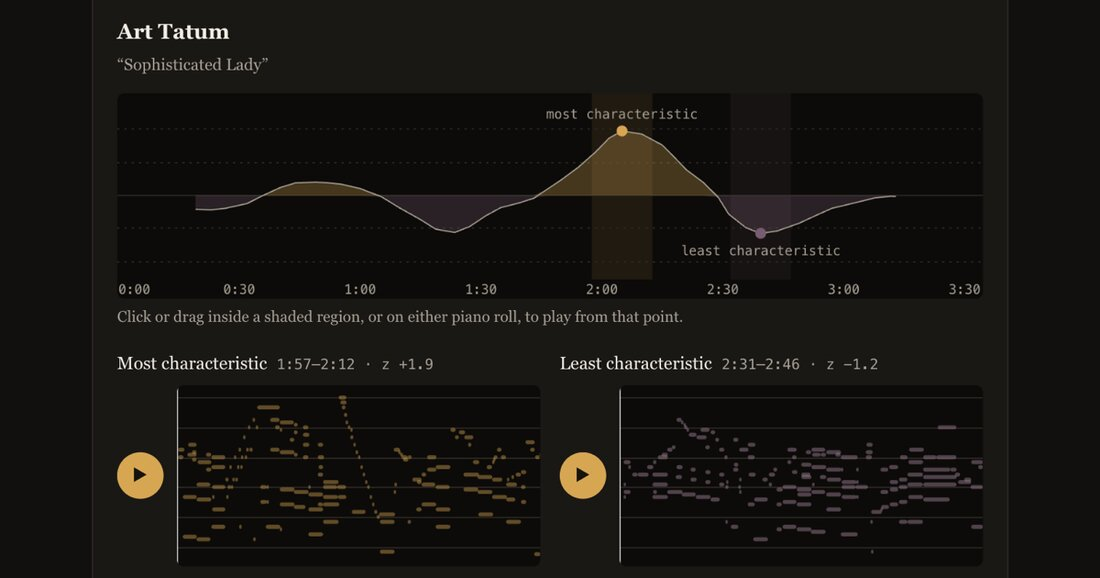
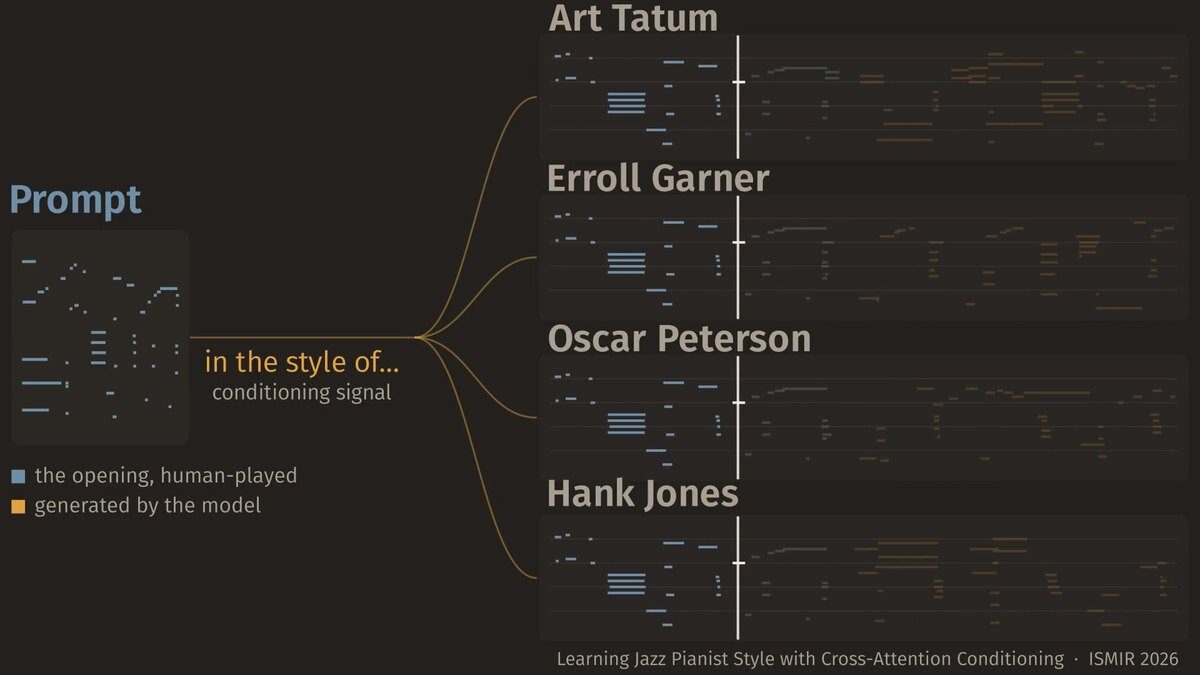
Use the one-prompt-four-pianists frame for the featured paper; link the thread

diff --git a/research/index.html b/research/index.html
@@ -79,7 +79,7 @@
                     <div class="featured">
                         <div class="row">
                             <div class="col-sm-5">
-                                <a class="no-smoothState" href="https://almostimplemented.github.io/jazz-pianist-style/"><img class="img-responsive" src="/img/jazz-pianist-style.jpg" alt="Most and least characteristic passages of an Art Tatum performance"></a>
+                                <a class="no-smoothState" href="https://almostimplemented.github.io/jazz-pianist-style/"><img class="img-responsive" src="/img/jazz-pianist-style.jpg" alt="One prompt continued in the styles of Art Tatum, Erroll Garner, Oscar Peterson, and Hank Jones"></a>
                             </div>
                             <div class="col-sm-7">
                                 <h3><a class="no-smoothState" href="https://almostimplemented.github.io/jazz-pianist-style/">Learning Jazz Pianist Style with Cross-Attention Conditioning</a></h3>
@@ -92,7 +92,8 @@
                                 <p>
                                     <a class="no-smoothState" href="https://almostimplemented.github.io/jazz-pianist-style/">Audio demos</a> &middot;
                                     <a class="no-smoothState" href="https://arxiv.org/abs/2610.02918">arXiv</a> &middot;
-                                    <a class="no-smoothState" href="https://github.com/almostimplemented/jazz-pianist-style">Code</a>
+                                    <a class="no-smoothState" href="https://github.com/almostimplemented/jazz-pianist-style">Code</a> &middot;
+                                    <a class="no-smoothState" href="https://x.com/drooby_doo/status/2105915906769801603">Thread on X</a>
                                 </p>
                             </div>
                         </div>
